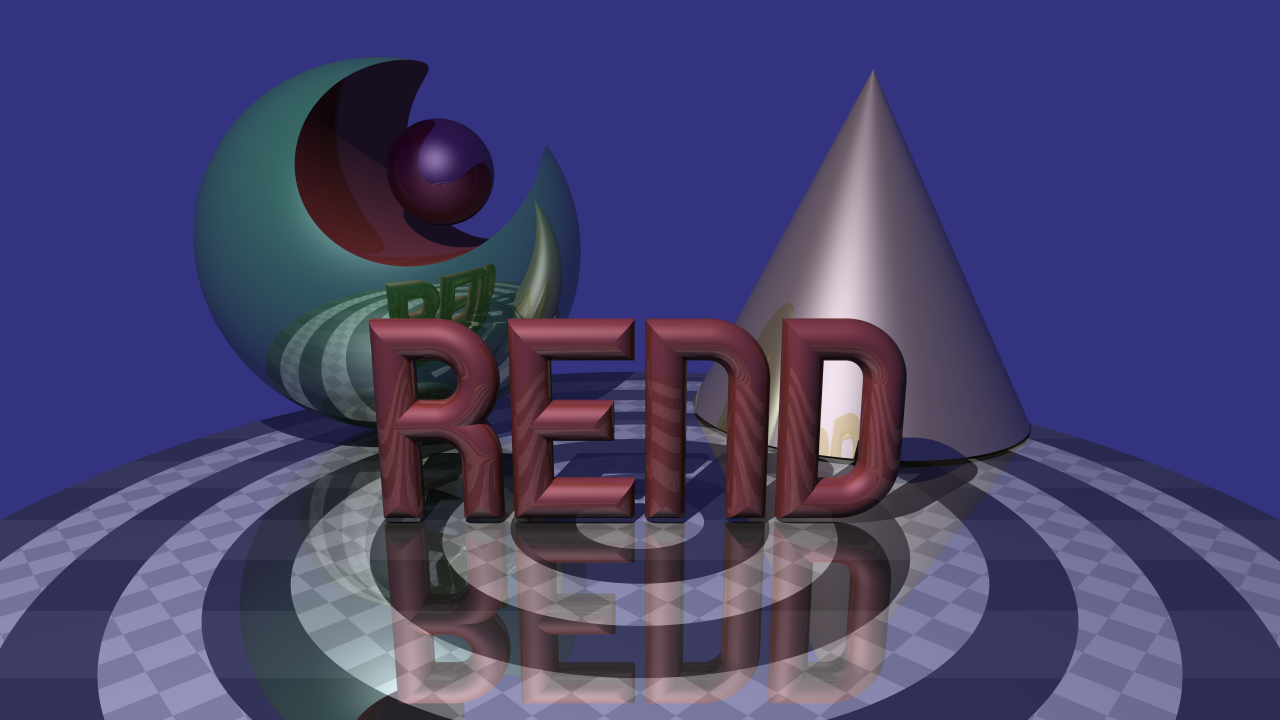
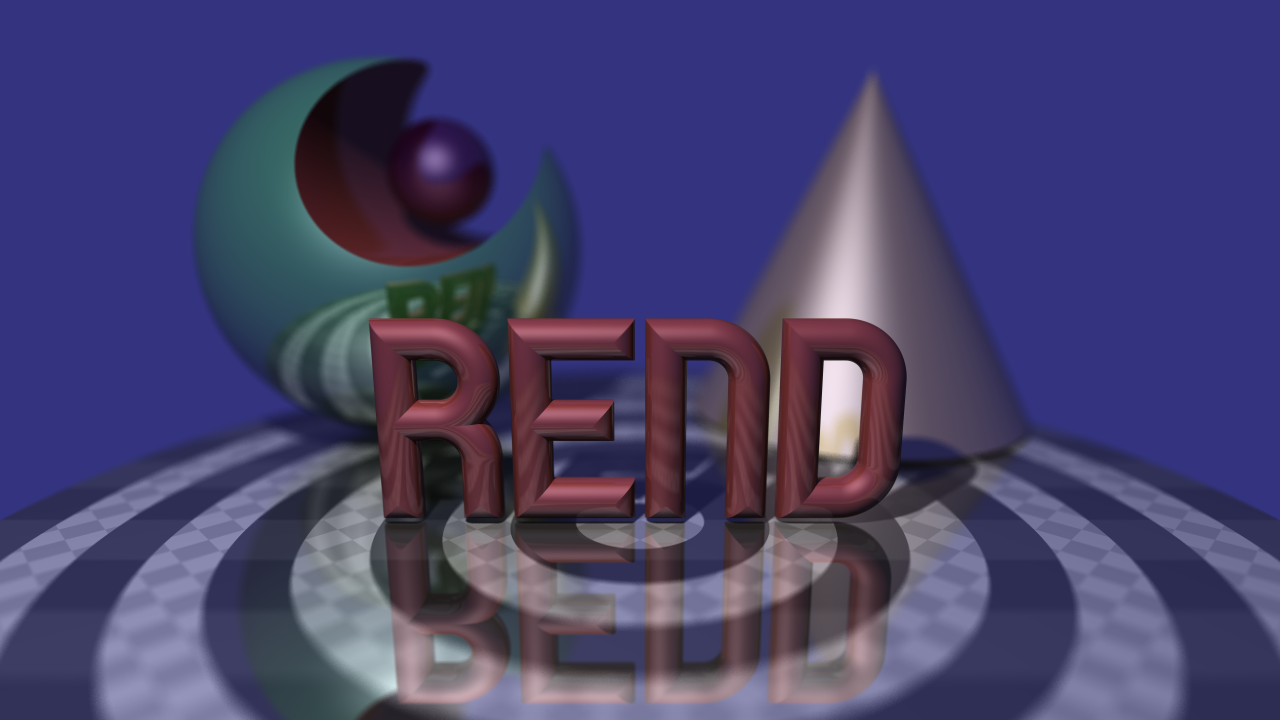
added aperture/focus settings for depth-of-field rendering

diff --git a/src/Renderer.cc b/src/Renderer.cc
@@ -16,13 +16,31 @@
 
 
 // **** helper functions ****
+static inline double rnd_val()
+{
+  // random value in interval [0, 1)
+#if defined(__MINGW32__) || defined(__MINGW64__)
+  return double(rand()) / (double(RAND_MAX) + 1.0);
+#else
+  return drand48();
+#endif
+}
+
 static inline double rnd_jitter()
 {
-#if defined(__MINGW32__) || defined(__MINGW64__)
-  return (double(rand()) / double(RAND_MAX)) - .5;
-#else
-  return drand48() - .5; // range [-.5,+.5)
-#endif
+  // interval [-.5, .5)
+  return rnd_val() - .5;
+}
+
+static inline Vec2 rnd_disk_pt()
+{
+  // random point on diameter=1 disk
+  double x, y;
+  do {
+    x = rnd_jitter();
+    y = rnd_jitter();
+  } while ((Sqr(x) + Sqr(y)) > .25);
+  return Vec2{x, y};
 }
 
 
@@ -55,13 +73,17 @@ int Renderer::init(const Scene* s, FrameBuffer* fb)
   // Calculate Screen/Pixel vectors
   const Flt imgW = Flt(s->image_width);
   const Flt imgH = Flt(s->image_height);
-  const Flt ss = std::tan(DegToRad(s->fov * .5));
+  const Flt focalLen = IsPositive(_scene->aperture) ? s->focus : 1.0;
+  const Flt ss = std::tan(DegToRad(s->fov * .5)) * focalLen;
   const Flt screenHeight = ss;
   const Flt screenWidth = ss * (imgW / imgH);
   // FIXME - assumes width > height for fov calc
   _pixelX = (vside * screenWidth) / (imgW * .5);
   _pixelY = (vtop * screenHeight) / (imgH * .5);
-  _rayDir = vnormal;
+  _rayDir = vnormal * focalLen;
+  _viewPlaneCenter = s->eye + _rayDir;
+  _apertureX = vside * s->aperture;
+  _apertureY = vtop * s->aperture;
 
   // init frame buffer
   _fb->init(s->image_width, s->image_height);
@@ -69,7 +91,9 @@ int Renderer::init(const Scene* s, FrameBuffer* fb)
   // setup sample points
   const int sampleX = std::max(s->sample_x, 1);
   const int sampleY = std::max(s->sample_y, 1);
-  const int sampleCount = IsPositive(s->jitter) ? std::max(s->samples, 1) : 1;
+  const int sampleCount =
+    (IsPositive(s->jitter) || IsPositive(s->aperture))
+    ? std::max(s->samples, 1) : 1;
 
   _samples.clear();
   _samples.reserve(sampleX * sampleY * sampleCount);
@@ -88,7 +112,6 @@ int Renderer::init(const Scene* s, FrameBuffer* fb)
 int Renderer::render(int min_x, int min_y, int max_x, int max_y,
 		     HitCache* freeCache, StatInfo* stats)
 {
-  const Vec3 px = _pixelX, py = _pixelY, rd = _rayDir;
   const Flt halfWidth = Flt(_scene->image_width) * .5;
   const Flt halfHeight = Flt(_scene->image_height) * .5;
   const auto samplesInv =
@@ -97,9 +120,11 @@ int Renderer::render(int min_x, int min_y, int max_x, int max_y,
   const Flt jitterX = _scene->jitter / Flt(std::max(_scene->sample_x, 1));
   const Flt jitterY = _scene->jitter / Flt(std::max(_scene->sample_y, 1));
   const bool use_jitter = IsPositive(_scene->jitter);
+  const bool use_aperture = IsPositive(_scene->aperture);
+  const Vec3 eye = _scene->eye;
 
   Ray initRay;
-  initRay.base = _scene->eye;
+  initRay.base = eye;
   initRay.min_length = 0;
   initRay.max_length = VERY_LARGE;
   initRay.time = 0.0;
@@ -121,8 +146,18 @@ int Renderer::render(int min_x, int min_y, int max_x, int max_y,
           sx += rnd_jitter() * jitterX;
           sy += rnd_jitter() * jitterY;
         }
-        initRay.dir = rd + (px * sx) + (py * sy);
-          // dir not normalized for performance
+
+        const Vec3 dirAdj = (_pixelX * sx) + (_pixelY * sy);
+        if (use_aperture) {
+          const Vec2 r = rnd_disk_pt();
+          initRay.base = eye + (_apertureX * r.x) + (_apertureY * r.y);
+          initRay.dir = UnitVec(_viewPlaneCenter - initRay.base + dirAdj);
+            // FIXME - normalized because dir length much greater than 1
+            // causes problems with some intersections (torus mainly)
+        } else {
+          initRay.dir = _rayDir + dirAdj;
+            // dir not normalized for performance
+        }
 
         c += _scene->traceRay(initRay);
       }

diff --git a/src/Keywords.cc b/src/Keywords.cc
@@ -143,6 +143,13 @@ int StretchFn(
 }
 
 // scene attributes
+int ApertureFn(
+  SceneParser& sp, Scene& s, SceneItem* p, AstNode* n, SceneItemFlag flag)
+{
+  if (p || sp.getFlt(n, s.aperture) || notDone(sp, n)) { return -1; }
+  return 0;
+}
+
 int CoiFn(
   SceneParser& sp, Scene& s, SceneItem* p, AstNode* n, SceneItemFlag flag)
 {
@@ -154,6 +161,13 @@ int EyeFn(
   SceneParser& sp, Scene& s, SceneItem* p, AstNode* n, SceneItemFlag flag)
 {
   if (p || sp.getVec3(n, s.eye) || notDone(sp, n)) { return -1; }
+  return 0;
+}
+
+int FocusFn(
+  SceneParser& sp, Scene& s, SceneItem* p, AstNode* n, SceneItemFlag flag)
+{
+  if (p || sp.getFlt(n, s.focus) || notDone(sp, n)) { return -1; }
   return 0;
 }
 
@@ -312,12 +326,14 @@ static void initKeywords()
   Keywords = std::make_unique<KeywordMap>();
   *Keywords = {
     // keyword      ItemFn
+    {"aperture",    ApertureFn},
     {"coi",         CoiFn},
     {"cost",        CostFn},
     {"dir",         DirectionFn},
     {"direction",   DirectionFn},
     {"exp",         ExpFn},
     {"eye",         EyeFn},
+    {"focus",       FocusFn},
     {"fov",         FovFn},
     {"jitter",      JitterFn},
     {"maxdepth",    MaxdepthFn},

diff --git a/src/Scene.cc b/src/Scene.cc
@@ -34,6 +34,8 @@ void Scene::clear()
   coi = {0,0,0};
   vup = {0,1,0};
   fov = 50.0;
+  aperture = 0.0;
+  focus = 1;
   sample_x = 1;
   sample_y = 1;
   jitter = 0.0;
